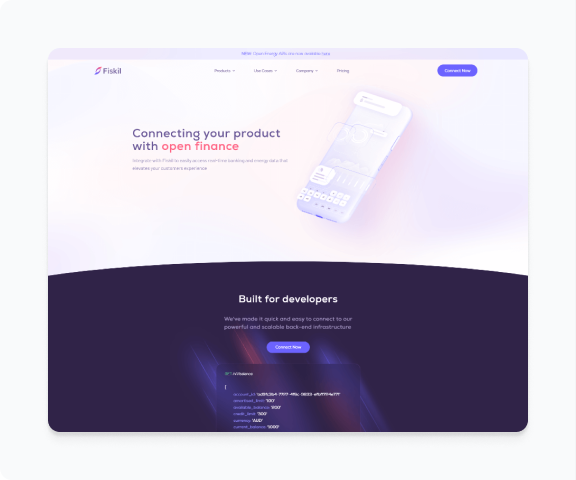
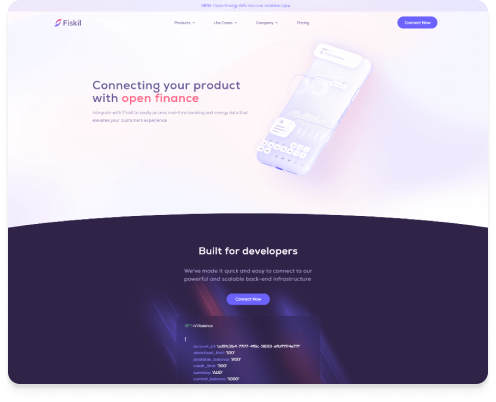
latest

diff --git a/src/components/Work.jsx b/src/components/Work.jsx
@@ -20,8 +20,8 @@ export default function Work() {
 
         <div className="flex flex-col gap-12">
           <div className=" dark:bg-gray-800 flex rounded-xl shadow-lg">
-            <div className=" w-2/4">
-                <img src={Img.src} className="h-[520px]"/>
+            <div className=" w-2/4 dark:bg-gray-700 flex justify-center items-center rounded-l-xl bg-gray-100">
+                <img src={Img.src} className="h-[384px]"/>
             </div>
             <div className="p-12 flex flex-col gap-6 w-2/4 ">
               <ExperienceTitle context="Fiskill"/>
@@ -65,15 +65,15 @@ export default function Work() {
               <Actions/>
               </div>
             </div>
-            <div className="w-2/4">
-                <img src={Img.src} className="h-[520px]"/>
+            <div className="w-2/4 dark:bg-gray-700 flex justify-center items-center rounded-r-xl bg-gray-100">
+                <img src={Img.src} className="h-[384px]"/>
             </div>
 
           </div>
 
           <div className="dark:bg-gray-800 flex rounded-xl shadow-lg">
-            <div className="w-2/4">
-                <img src={Img.src} className="h-[520px]"/>
+            <div className=" w-2/4 dark:bg-gray-700 flex justify-center items-center rounded-l-xl bg-gray-100">
+                <img src={Img.src} className="h-[384px]"/>
             </div>
             <div className="p-12 flex flex-col gap-6 w-2/4">
               <ExperienceTitle context="Fiskill"/>
